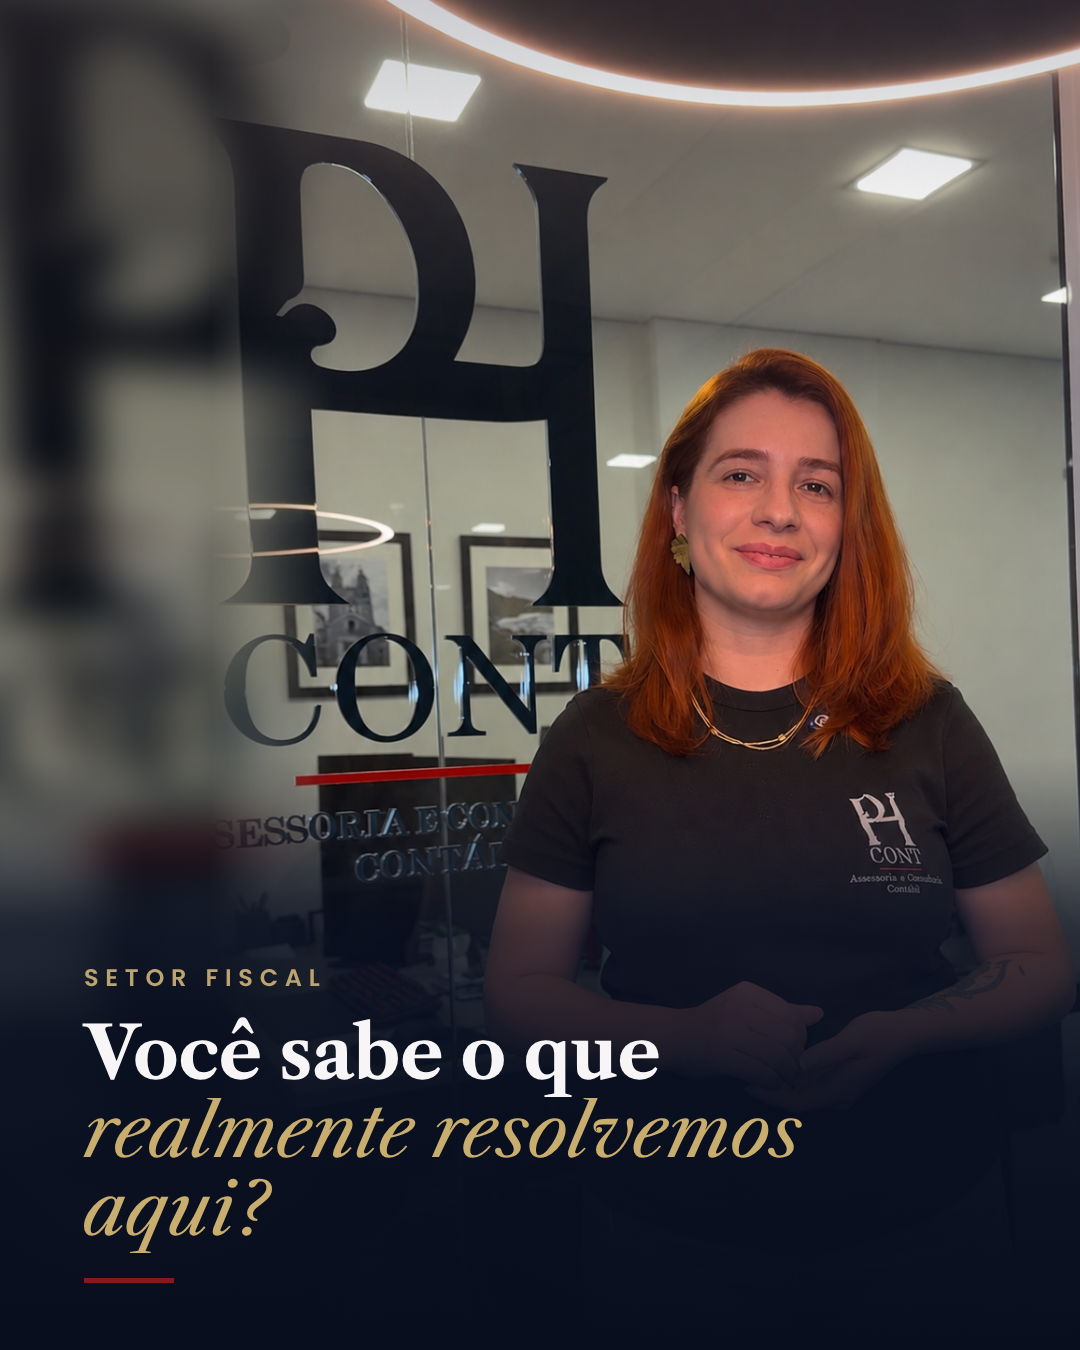
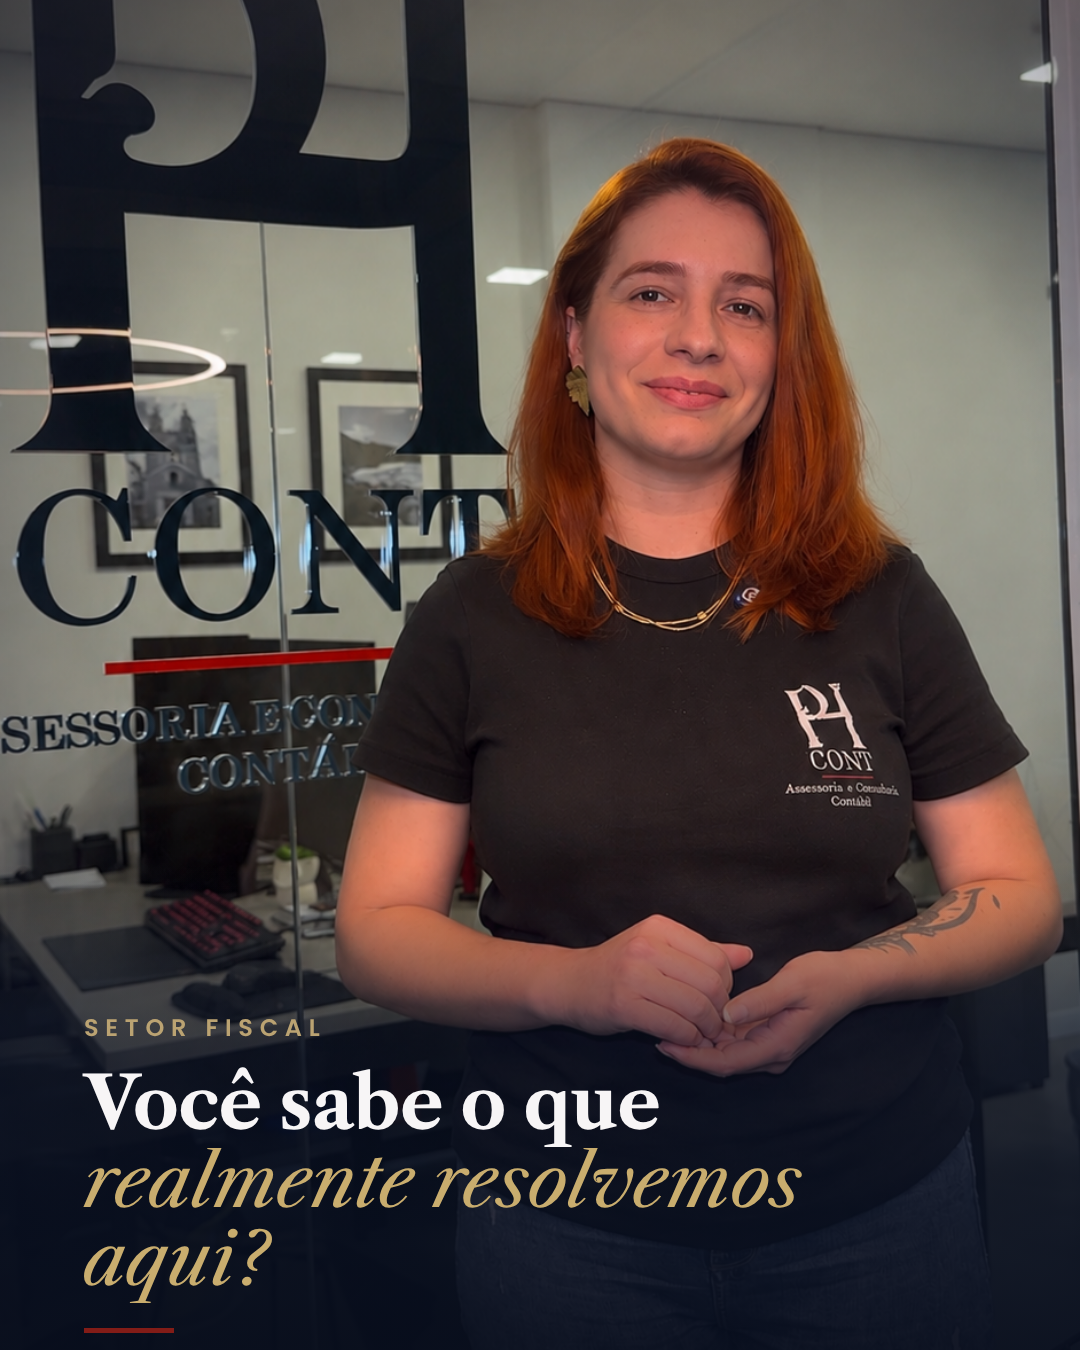
PHcont carrossel: capa sem desfoque lateral, sombra embaixo mais leve e vinheta em volta
Claude-Session: https://claude.ai/code/session_012bVqEb5M2bw1tnz2qQiCDo

diff --git a/phcont/carrossel/setor_fiscal/carrossel.html b/phcont/carrossel/setor_fiscal/carrossel.html
@@ -52,11 +52,11 @@ html,body{width:1080px;height:1350px;overflow:hidden;background:#0b1529}
 
 <!-- 1: CAPA -->
 <section class="s" id="s1">
-  <!-- foto mais aberta (corpo inteiro até o quadril): fundo com a própria foto desfocada + foto nítida com borda esfumada -->
-  <div style="position:absolute;inset:-40px;background:url(foto1.png) 20% 30%/cover;filter:blur(22px) brightness(.8)"></div>
-  <img src="foto1.png" style="position:absolute;right:-10px;top:-40px;height:1560px;-webkit-mask-image:linear-gradient(90deg,transparent 0,#000 14%)">
-  <div style="position:absolute;inset:0;background:linear-gradient(180deg,rgba(9,16,32,.2) 0%,rgba(9,16,32,0) 18%,rgba(9,16,32,0) 56%,rgba(11,19,38,.75) 69%,rgba(9,16,32,.95) 80%,#080e1d 100%)"></div>
-  <div style="position:absolute;left:84px;right:84px;top:960px">
+  <!-- foto sem desfoque: enquadrada da cabeça até o quadril, sombra suave em volta -->
+  <div style="position:absolute;inset:0;background:url(foto1.png) center 60%/cover"></div>
+  <div style="position:absolute;inset:0;background:radial-gradient(ellipse 75% 70% at 55% 42%,rgba(8,14,29,0) 55%,rgba(8,14,29,.55) 100%)"></div>
+  <div style="position:absolute;inset:0;background:linear-gradient(180deg,rgba(9,16,32,0) 0%,rgba(9,16,32,0) 64%,rgba(11,19,38,.55) 76%,rgba(9,16,32,.82) 90%,rgba(8,14,29,.9) 100%)"></div>
+  <div style="position:absolute;left:84px;right:84px;top:1010px">
     <div class="rot" style="font-size:24px">SETOR FISCAL</div>
     <div style="margin-top:20px;font-family:'Libre Caslon Text',serif;font-weight:700;font-size:72px;line-height:1.08;letter-spacing:-.01em">Você sabe o que <em style="font-style:italic;font-weight:400;color:var(--ouro)">realmente resolvemos aqui?</em></div>
     <div class="traco"></div>
